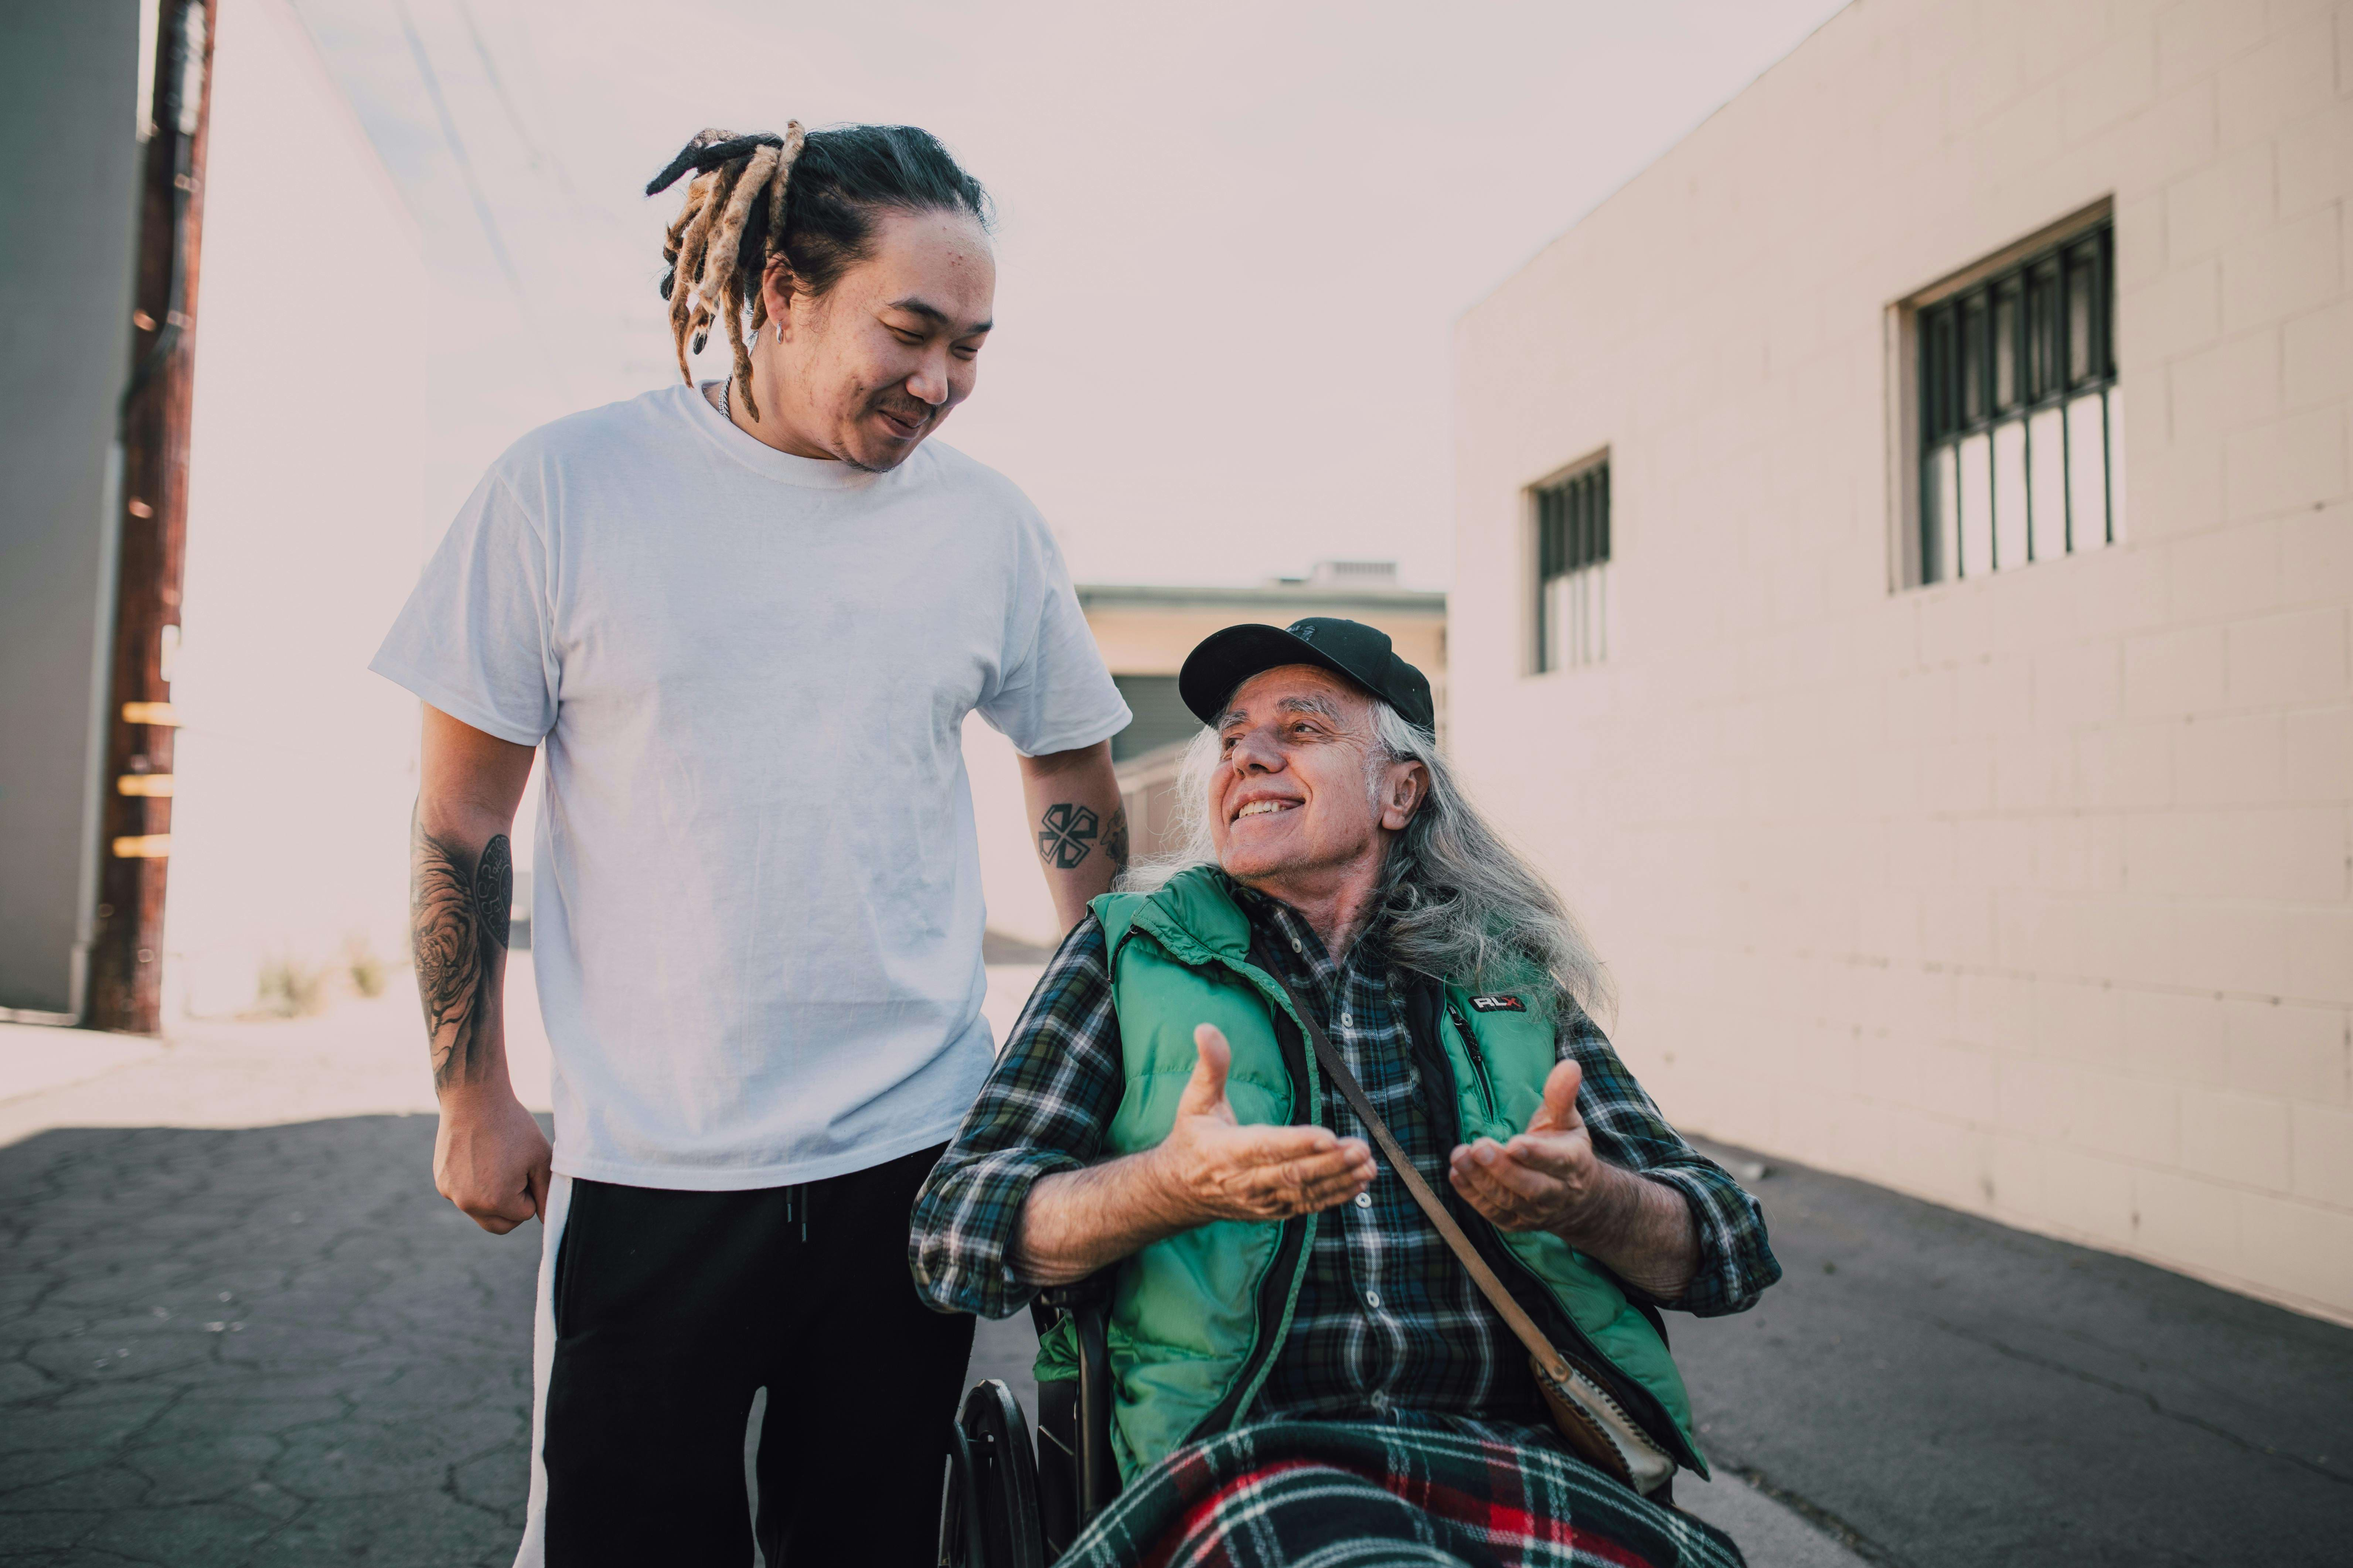
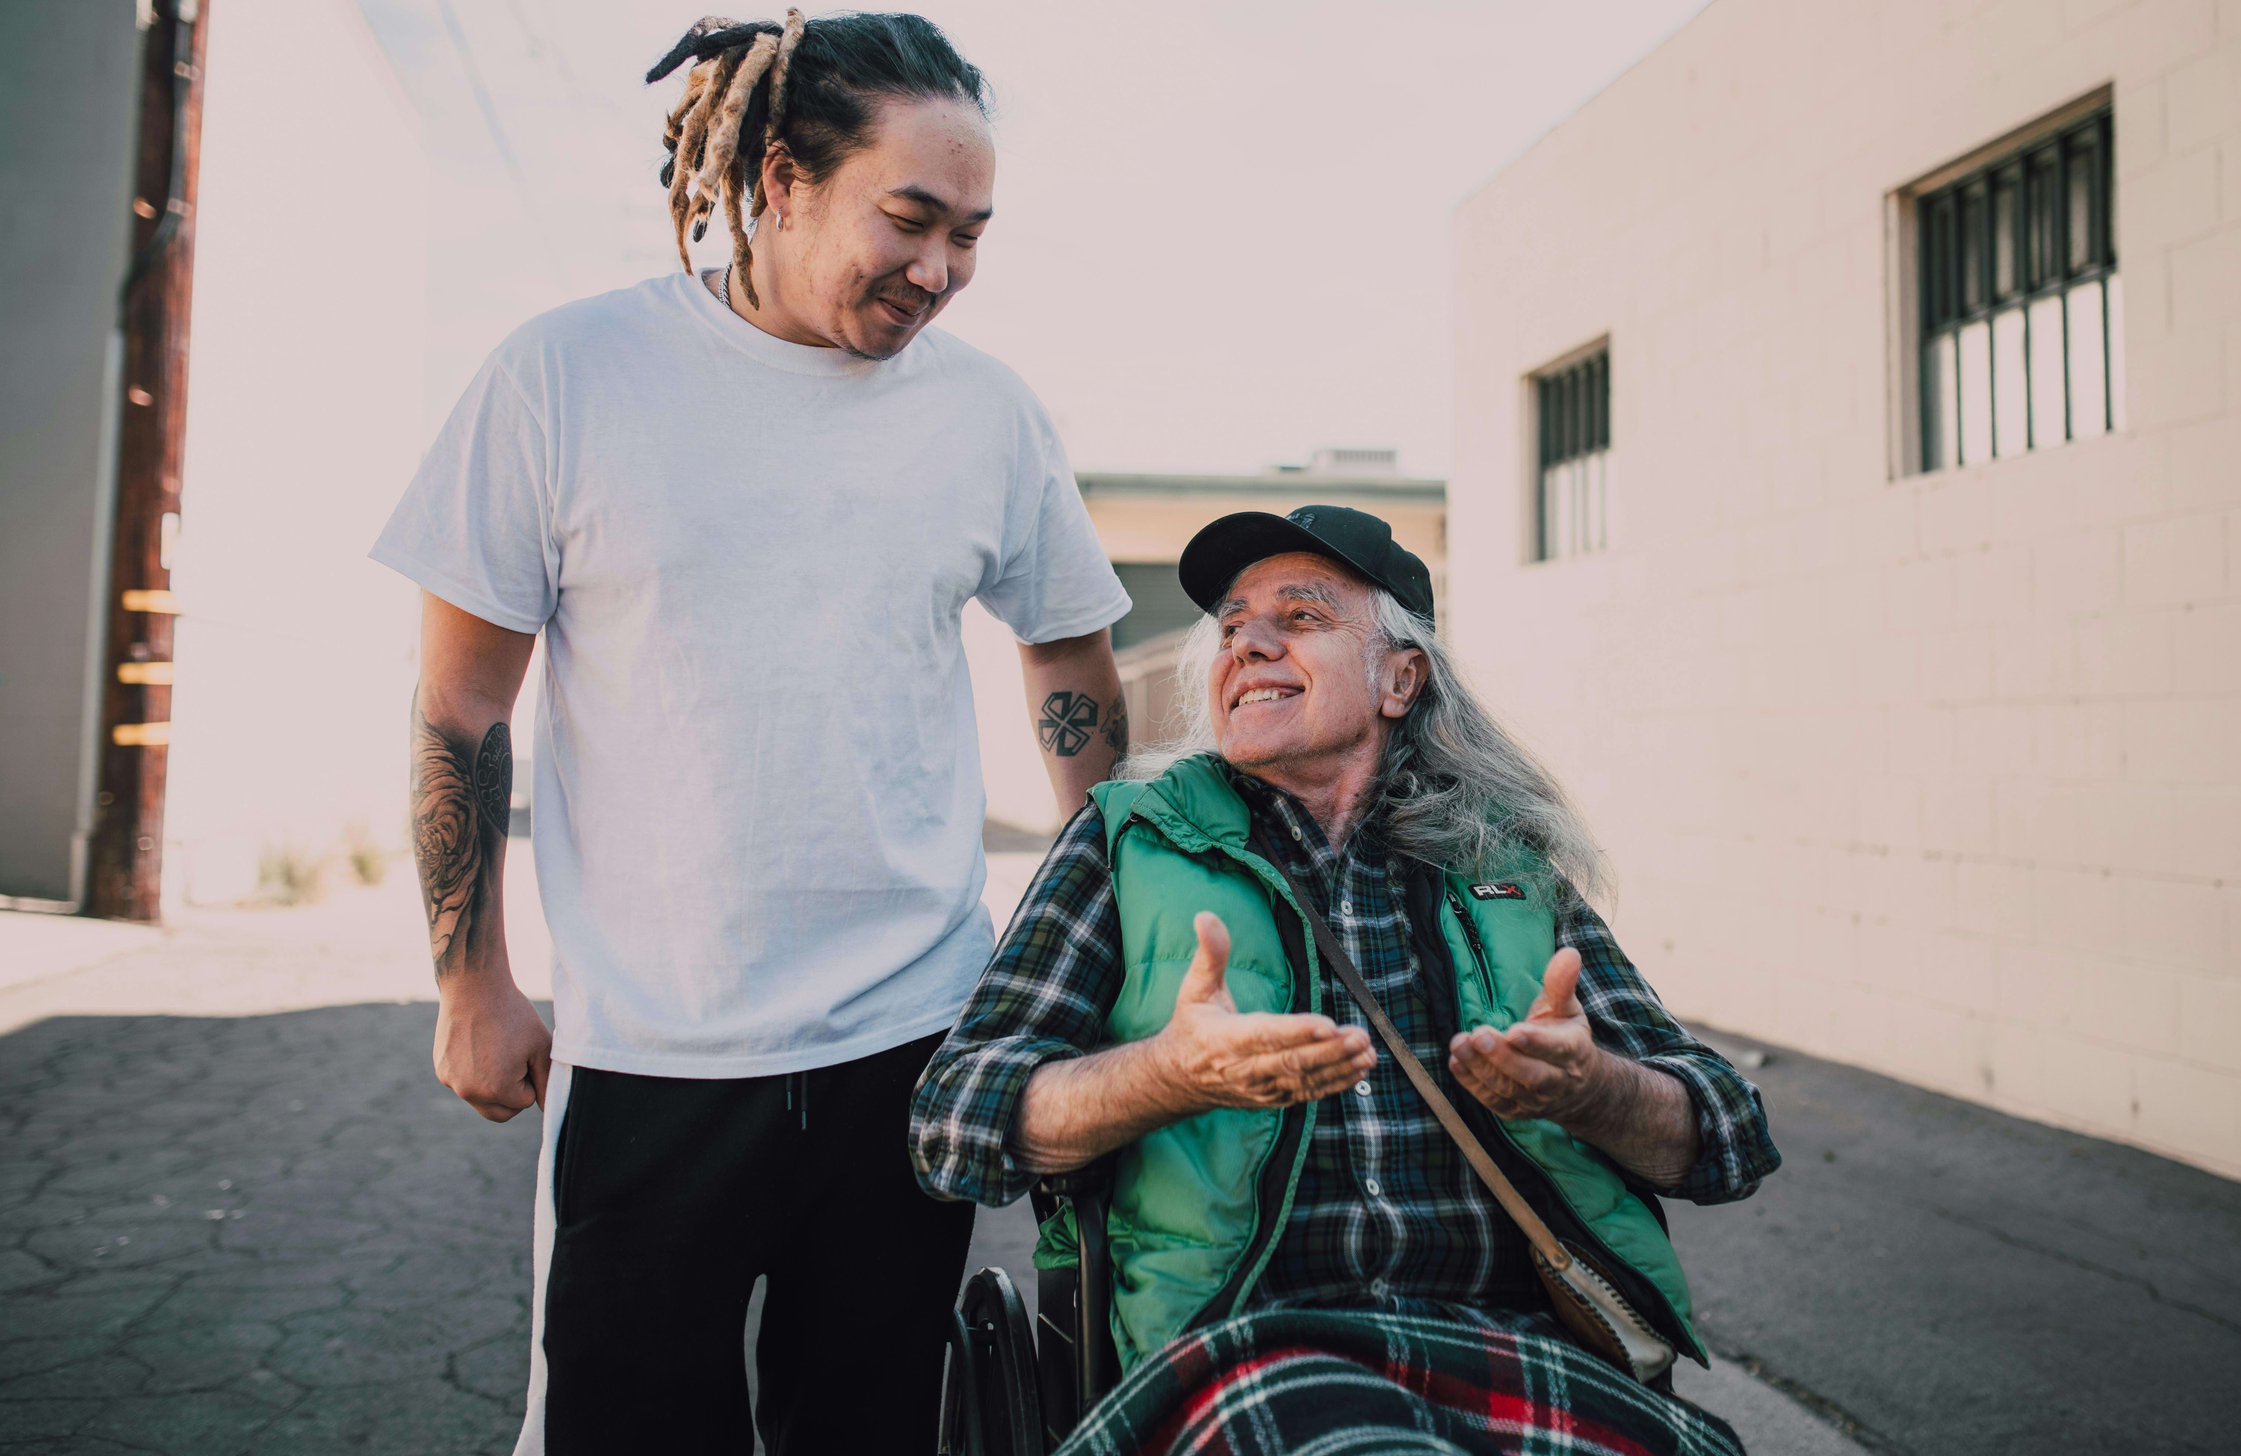
slight change to home image

diff --git a/components/home/HeroSection.tsx b/components/home/HeroSection.tsx
@@ -9,7 +9,7 @@ const HeroSection = () => {
   const { highlightLinks } = usePrefs();
   return (
     <section
-      className="text-white px-4 py-8 flex flex-col gap-8 justify-center items-center min-h-[80dvh] text-center bg-center bg-cover bg-black/30 bg-blend-overlay"
+      className="text-white px-4 py-8 flex flex-col gap-8 justify-center items-center min-h-[70dvh] lg:min-h-[85dvh] text-center bg-cover bg-center md:bg-top bg-black/30 bg-blend-overlay"
       style={{ backgroundImage: `url(${HeroBG.src})` }}
     >
       <div className="max-w-2xl bg-black/30 px-4 pt-6 pb-8 rounded-md">
